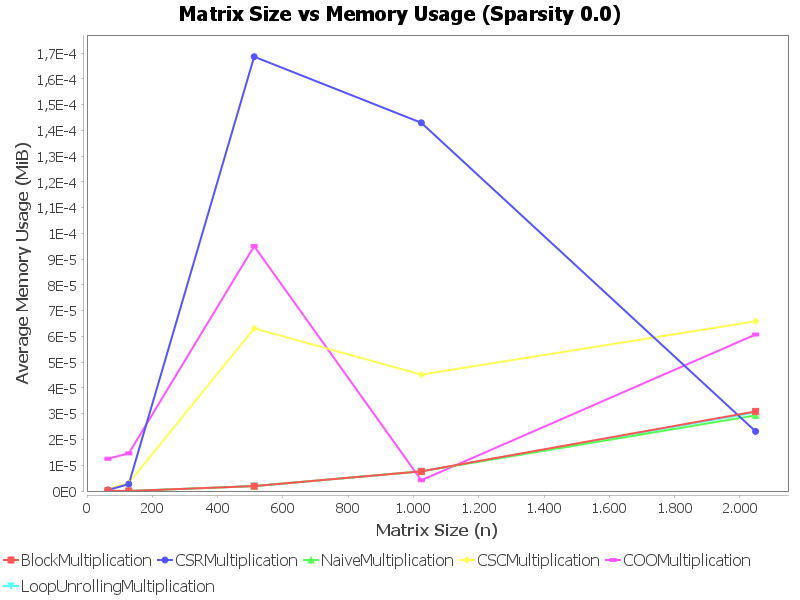
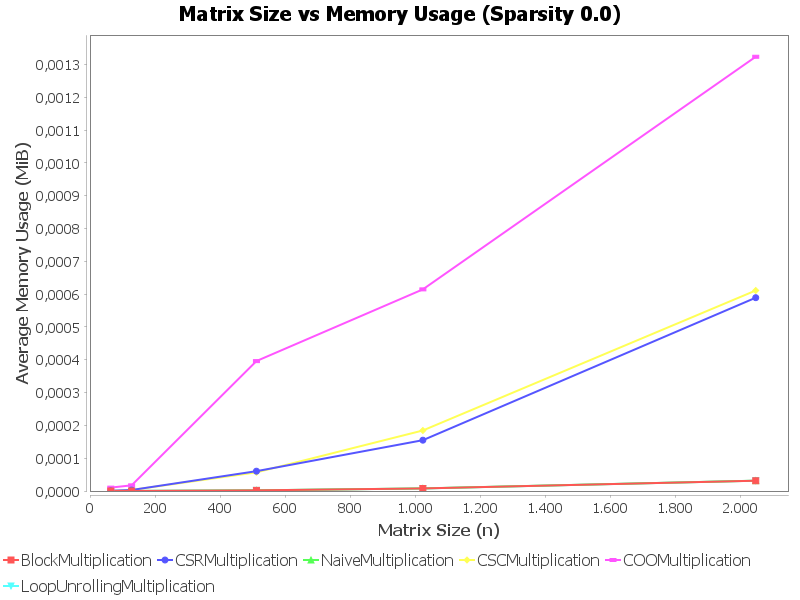
memory results updated

diff --git a/task2/code/matrixMultiplication2/src/test/java/org/ulpgc/MatrixMultiplicationMemory.java b/task2/code/matrixMultiplication2/src/test/java/org/ulpgc/MatrixMultiplicationMemory.java
@@ -75,7 +75,7 @@ public class MatrixMultiplicationMemory {
                 }
             }
         }
-
+        System.gc();
         long beforeMemory = getUsedMemory();
 
         switch (method) {
